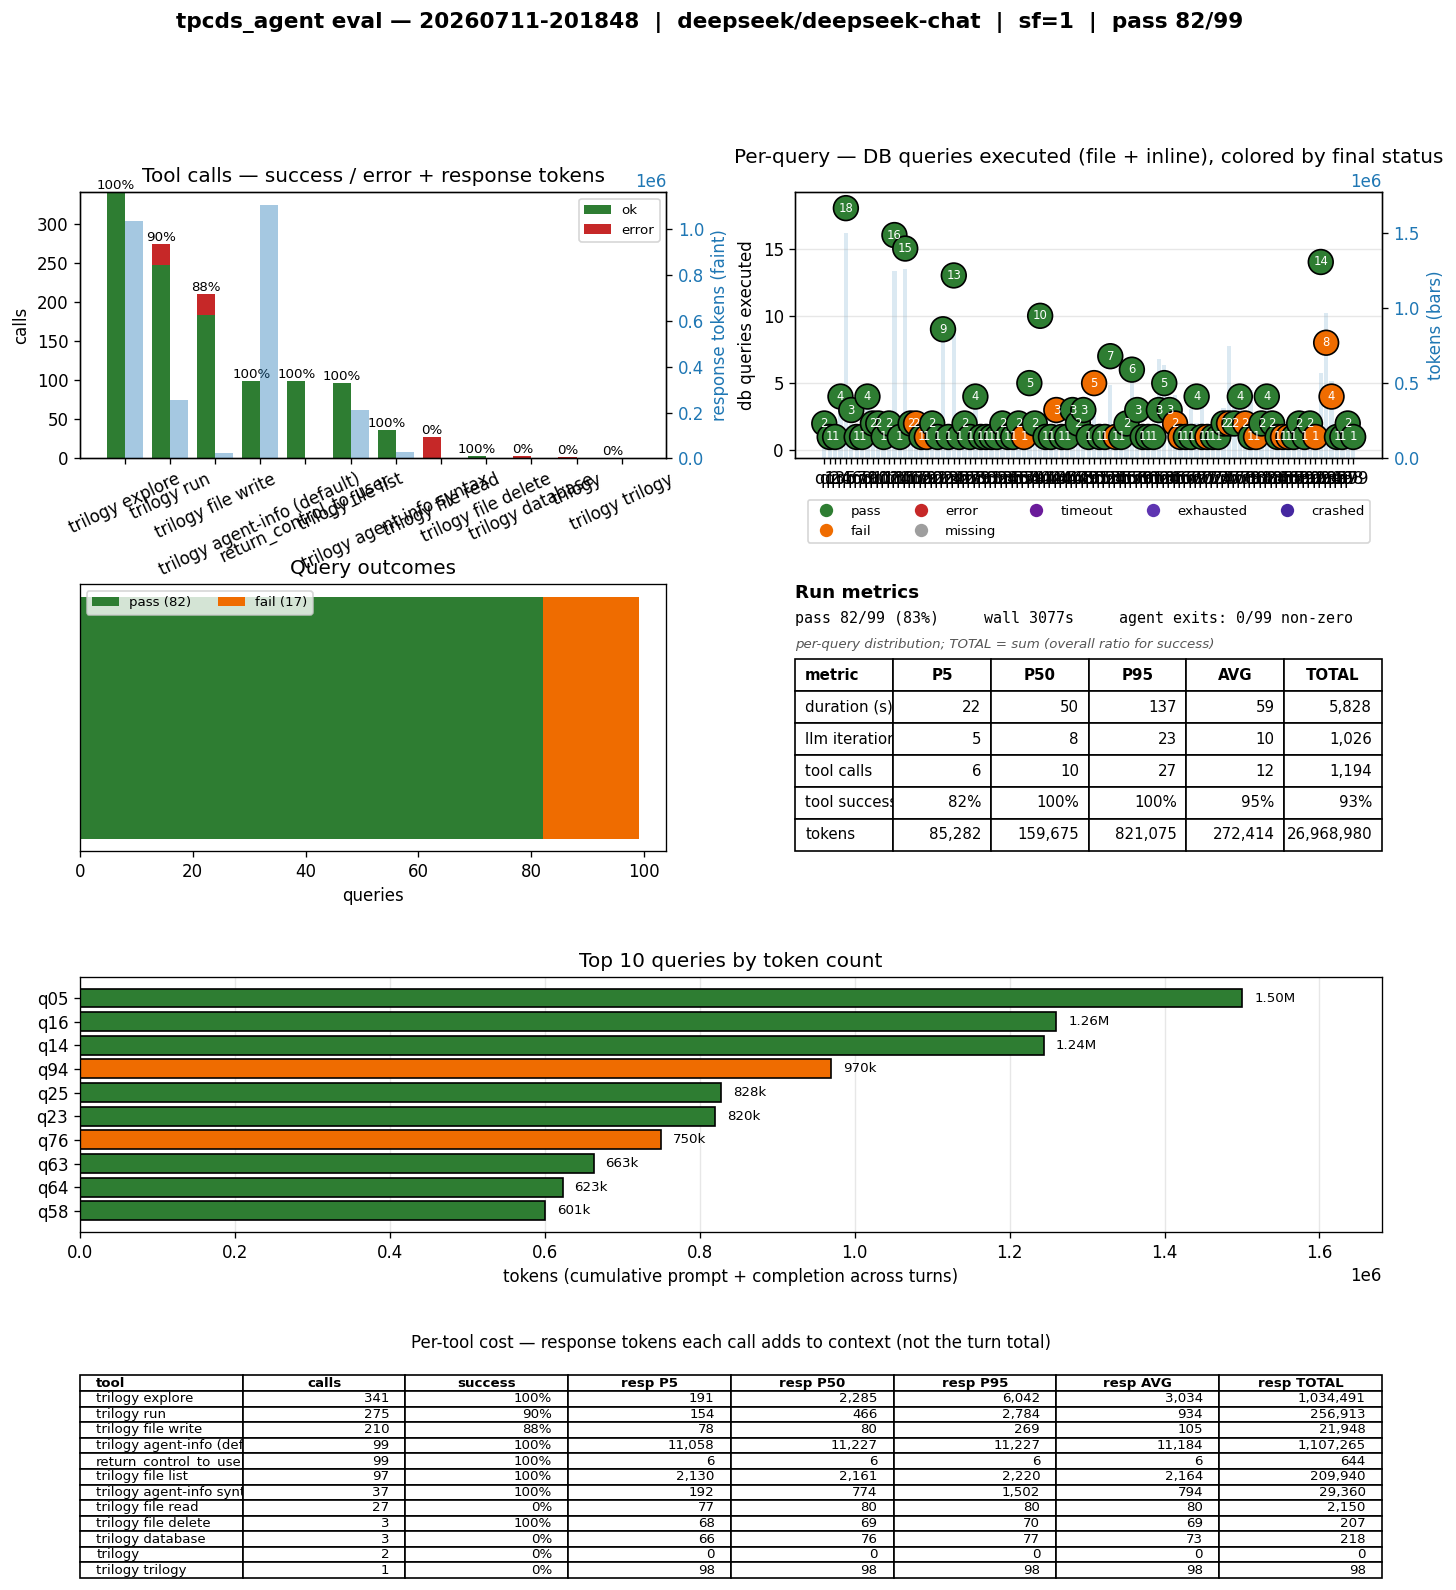
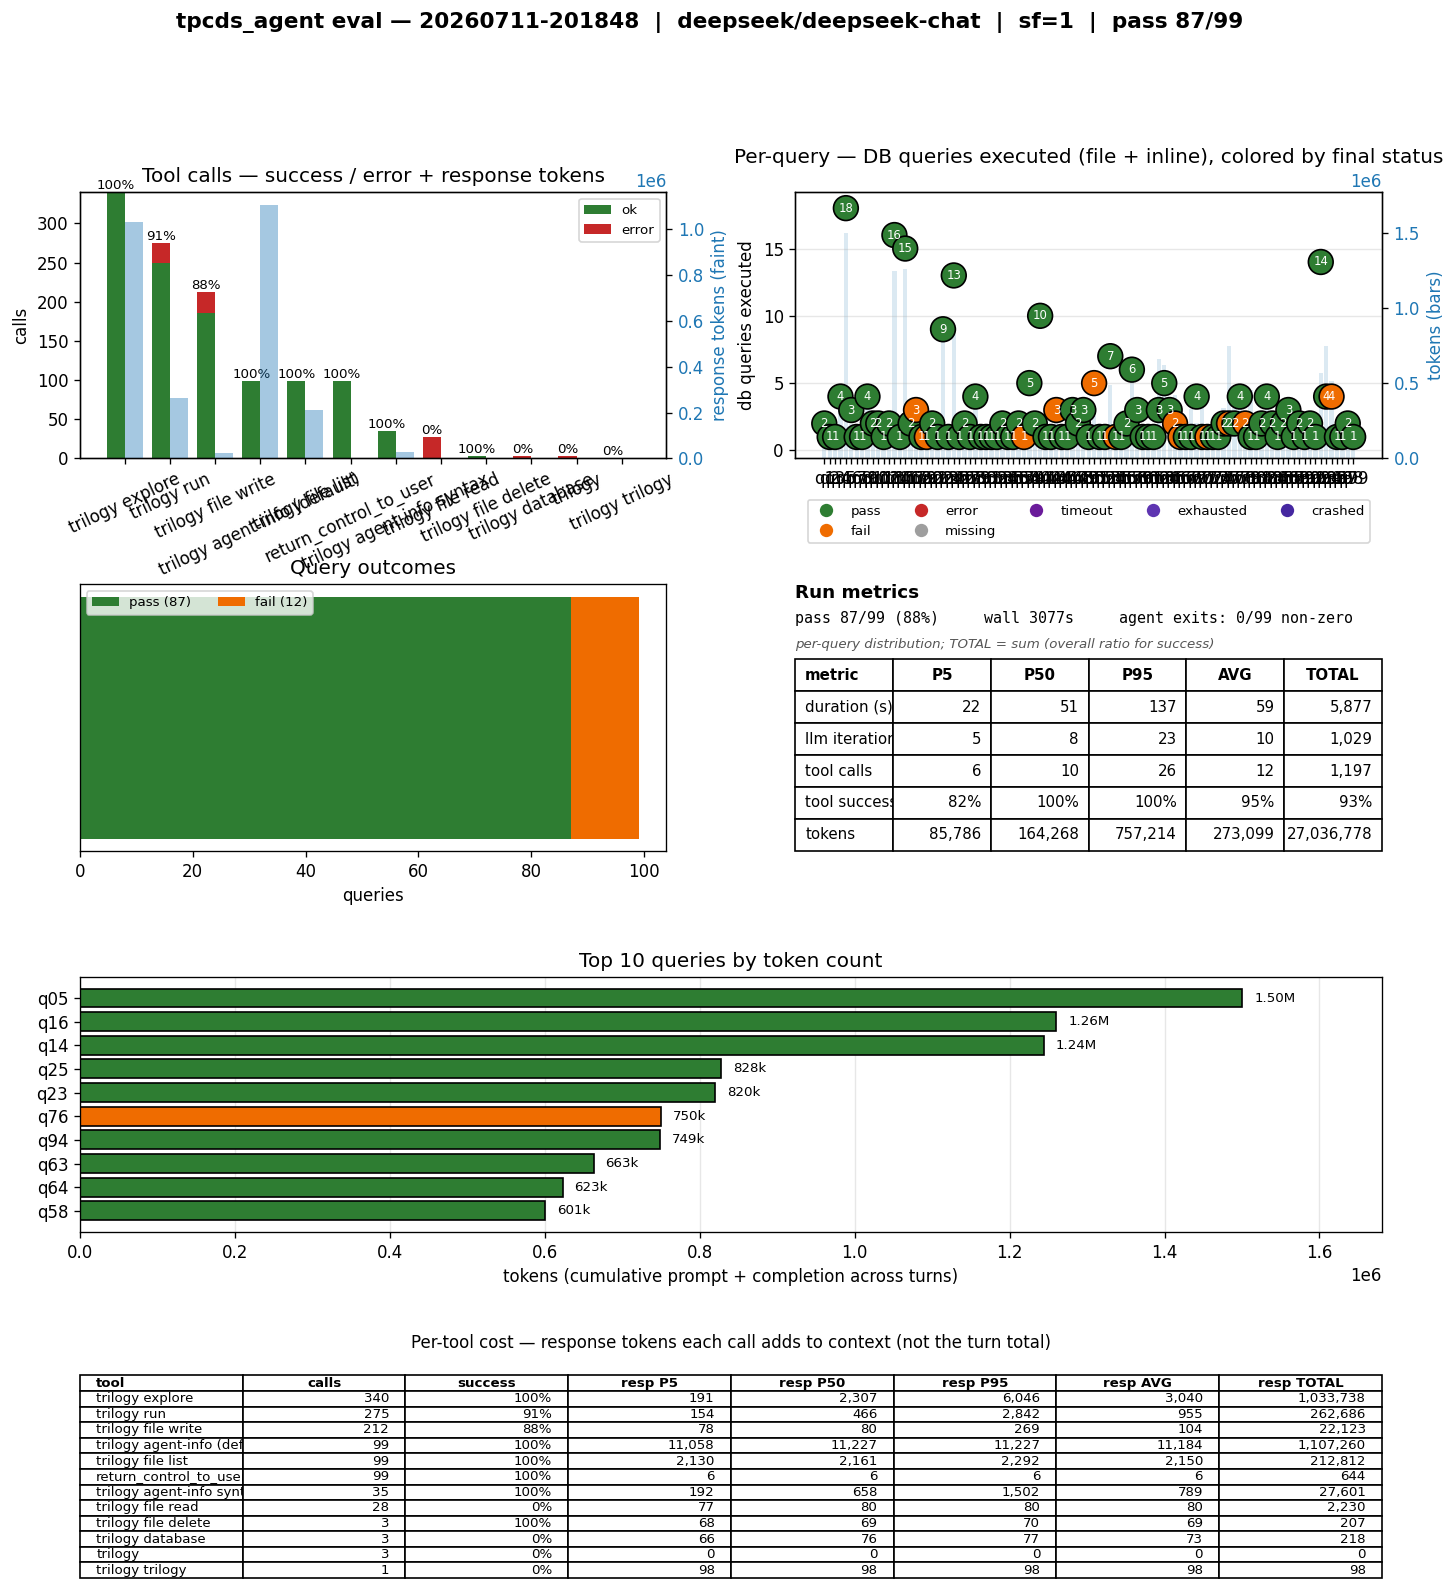
current_work

diff --git a/trilogy/ai/syntax_examples.py b/trilogy/ai/syntax_examples.py
@@ -209,6 +209,23 @@ select
     student_dept_credits,
 ;
 
+# SCOPED INPUT POPULATION: when the totals and their group average must use only
+# rows from a specific period, bind that condition inside the inner aggregate.
+# A separate output-only filter still belongs in the final WHERE and does not
+# narrow the rows feeding either aggregate.
+auto student_dept_credits_2024 <- sum(enroll.credits ? enroll.year = 2024)
+    by enroll.student_id, enroll.department;
+auto dept_avg_credits_2024 <- avg(student_dept_credits_2024) by enroll.department;
+
+where
+    student_dept_credits_2024 > 1.2 * dept_avg_credits_2024
+    and enroll.student_id > 103
+select
+    enroll.student_id,
+    enroll.department,
+    student_dept_credits_2024,
+;
+
 # For more complex boundaries, compute the full-population benchmark in a separate rowset
 # with no output filter, then apply the subset filter only in the final selection.
 """,

diff --git a/tests/modeling/tpc_ds_duckdb/tcp-ds-summary.md b/tests/modeling/tpc_ds_duckdb/tcp-ds-summary.md
@@ -8,7 +8,7 @@ Signed deltas are `PreQL - Reference SQL` for size and `Trilogy execution - Refe
 
 Queries: 99
 
-PreQL is shorter than the reference SQL for 76/99 queries. Total PreQL length is 123,613 chars vs 182,494 reference SQL chars.
+PreQL is shorter than the reference SQL for 77/99 queries. Total PreQL length is 123,496 chars vs 182,494 reference SQL chars.
 
 | Length metric | P10 | P50 | P90 |
 | --- | ---: | ---: | ---: |